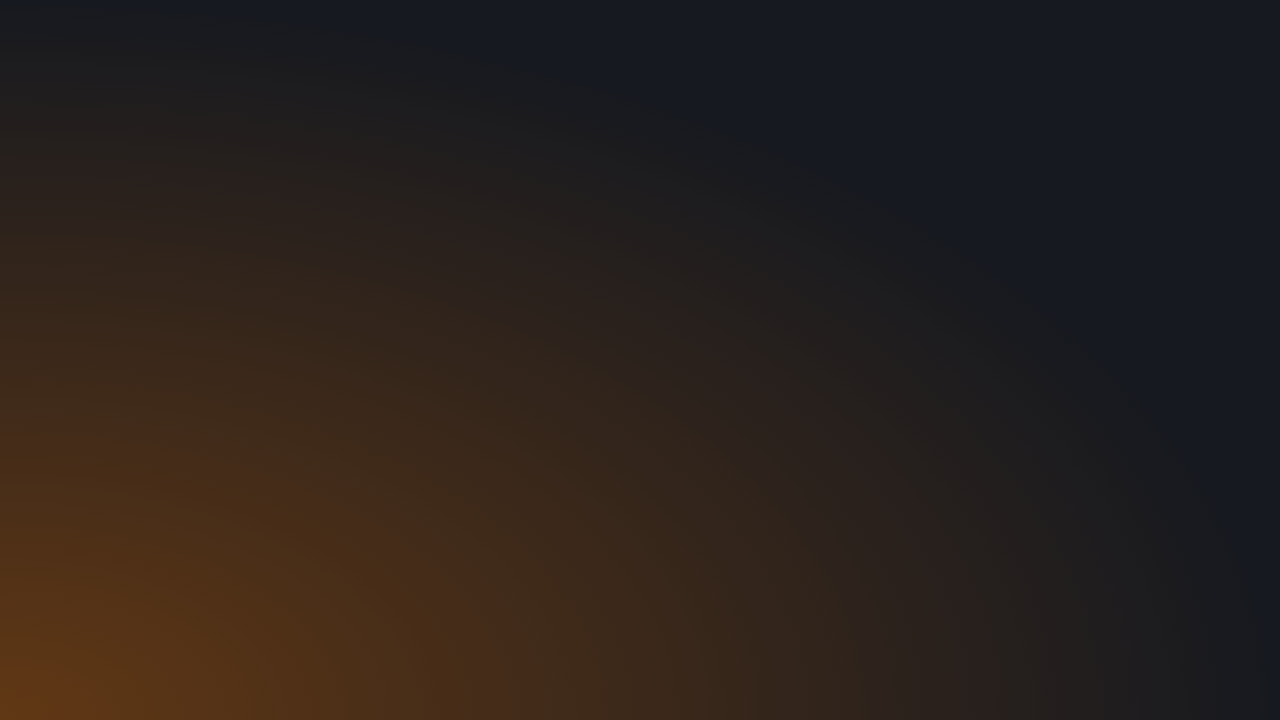
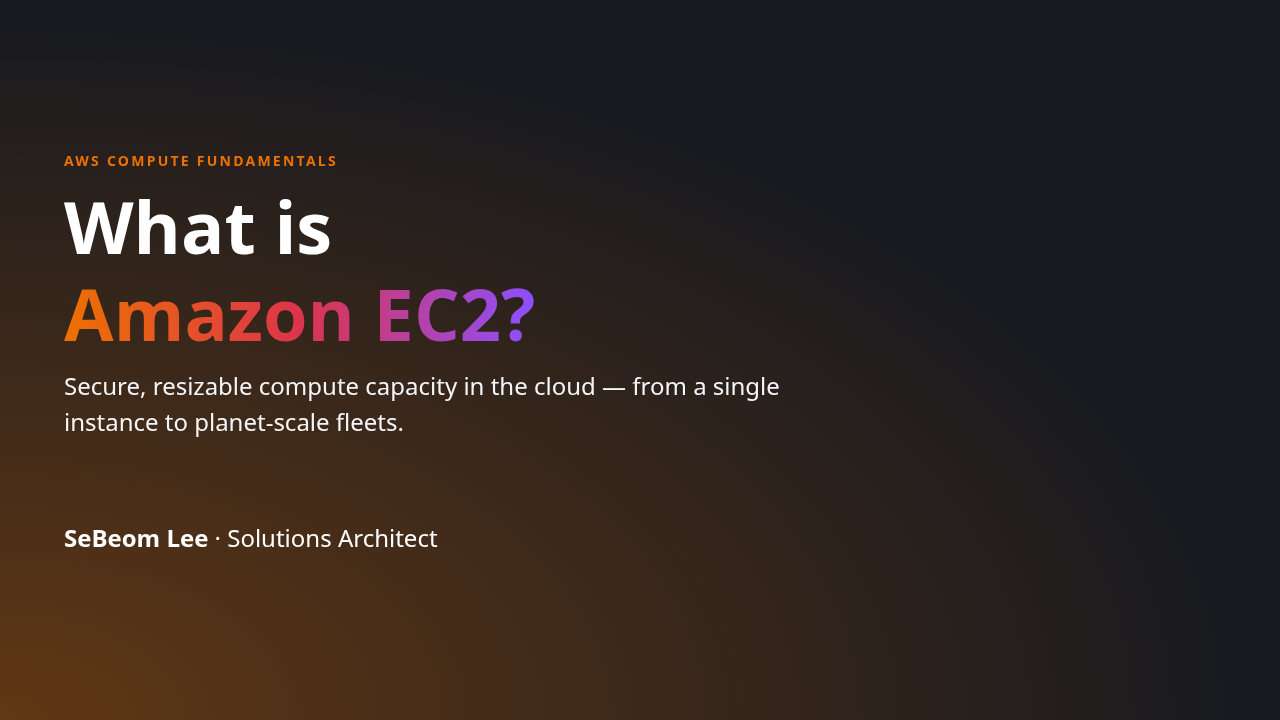
doc: re-render showcase after the print and entrance-delay fixes

diff --git a/examples/showcase/decks/balpyo-intro/index.html b/examples/showcase/decks/balpyo-intro/index.html
@@ -287,12 +287,16 @@
      The same gate as stepwise reveal: the document view, measure view, overview and print all see
      the end state, so the geometry pass measures the same layout. The effects use the individual
      translate / scale properties, not transform, so a rotated shape keeps its rotation. The delay
-     of each element comes from its data-balpyo-enter-delay (set by the runtime) and the duration
-     from the theme's motion token. */
+     of each element comes from its data-balpyo-enter-delay (the runtime copies it into
+     --balpyo-enter-delay) and the duration from the theme's motion token. The delay is applied
+     here, inside the gate, never inline: a transition with a zero duration but a positive delay
+     still runs, so an inline delay would keep elements at their start state for that long after
+     leaving the presenter view (to the document view, a screenshot or print). */
   html[data-balpyo-view="presenter"] [data-balpyo-enter] {
     transition-property: opacity, translate, scale, clip-path;
     transition-duration: var(--balpyo-motion-duration, 600ms);
     transition-timing-function: cubic-bezier(0.2, 0.7, 0.2, 1);
+    transition-delay: var(--balpyo-enter-delay, 0ms);
   }
   html[data-balpyo-view="presenter"] .balpyo-slide:not(.balpyo-viewer-entered) [data-balpyo-enter] {
     opacity: 0;
@@ -495,6 +499,12 @@
       outline: none;
       break-inside: avoid;
       break-after: page;
+      /* Size containment: the slide is a fixed stage-sized box, so this changes no size — it
+         makes the slide one unbreakable piece for the paginator. Without it Chromium drops
+         x/y-positioned children of a canvas stage or <stack> (absolutely positioned inside a
+         grid area) from the printed page while the screen shows them (measured: canvas slides
+         printed blank but for the footer). */
+      contain: size;
     }
     /* Stepwise reveal is fully expanded on paper — someone pressing Cmd+P mid-talk must not get
        paper missing the items not yet presented. The selector has the same specificity as the
@@ -1058,13 +1068,16 @@
 
   // ── 등장 ──
   //
-  // 지연은 마크업이 요소마다 나르고(data-balpyo-enter-delay) 여기서 전환에 건다 — 한 번이면 된다. 슬라이드에
+  // 지연은 마크업이 요소마다 나르고(data-balpyo-enter-delay) 여기서 변수(--balpyo-enter-delay)로 싣는다 — 한 번이면
+  // 된다. 전환에 거는 것은 발표자 뷰의 CSS다: transition-delay를 인라인으로 걸면 길이가 0인 다른 뷰에서도
+  // "지연 뒤에 바뀌는" 전환이 성립해(길이 + 지연 > 0), 문서 뷰 · 인쇄로 넘어간 순간 요소가 지연만큼 비어 있다.
+  // 슬라이드에
   // 들어갈 때 표식을 떼었다가 다음 프레임에 붙이면 요소들이 시작 상태에서 끝 상태로 엇갈려 움직인다. 뒤로
   // 들어온 장(이미 말한 장)은 움직이지 않고 끝 상태로 온다.
   const ENTERED_CLASS = "balpyo-viewer-entered";
   const INSTANT_CLASS = "balpyo-viewer-instant";
   document.querySelectorAll("[data-balpyo-enter]").forEach((el) => {
-    el.style.transitionDelay = (Number(el.getAttribute("data-balpyo-enter-delay")) || 0) + "ms";
+    el.style.setProperty("--balpyo-enter-delay", (Number(el.getAttribute("data-balpyo-enter-delay")) || 0) + "ms");
   });
   const enter = (slide, instant) => {
     slide.classList.remove(ENTERED_CLASS);

diff --git a/examples/showcase/decks/ec2-intro/index.html b/examples/showcase/decks/ec2-intro/index.html
@@ -357,12 +357,16 @@
      The same gate as stepwise reveal: the document view, measure view, overview and print all see
      the end state, so the geometry pass measures the same layout. The effects use the individual
      translate / scale properties, not transform, so a rotated shape keeps its rotation. The delay
-     of each element comes from its data-balpyo-enter-delay (set by the runtime) and the duration
-     from the theme's motion token. */
+     of each element comes from its data-balpyo-enter-delay (the runtime copies it into
+     --balpyo-enter-delay) and the duration from the theme's motion token. The delay is applied
+     here, inside the gate, never inline: a transition with a zero duration but a positive delay
+     still runs, so an inline delay would keep elements at their start state for that long after
+     leaving the presenter view (to the document view, a screenshot or print). */
   html[data-balpyo-view="presenter"] [data-balpyo-enter] {
     transition-property: opacity, translate, scale, clip-path;
     transition-duration: var(--balpyo-motion-duration, 600ms);
     transition-timing-function: cubic-bezier(0.2, 0.7, 0.2, 1);
+    transition-delay: var(--balpyo-enter-delay, 0ms);
   }
   html[data-balpyo-view="presenter"] .balpyo-slide:not(.balpyo-viewer-entered) [data-balpyo-enter] {
     opacity: 0;
@@ -565,6 +569,12 @@
       outline: none;
       break-inside: avoid;
       break-after: page;
+      /* Size containment: the slide is a fixed stage-sized box, so this changes no size — it
+         makes the slide one unbreakable piece for the paginator. Without it Chromium drops
+         x/y-positioned children of a canvas stage or <stack> (absolutely positioned inside a
+         grid area) from the printed page while the screen shows them (measured: canvas slides
+         printed blank but for the footer). */
+      contain: size;
     }
     /* Stepwise reveal is fully expanded on paper — someone pressing Cmd+P mid-talk must not get
        paper missing the items not yet presented. The selector has the same specificity as the
@@ -1925,13 +1935,16 @@
 
   // ── 등장 ──
   //
-  // 지연은 마크업이 요소마다 나르고(data-balpyo-enter-delay) 여기서 전환에 건다 — 한 번이면 된다. 슬라이드에
+  // 지연은 마크업이 요소마다 나르고(data-balpyo-enter-delay) 여기서 변수(--balpyo-enter-delay)로 싣는다 — 한 번이면
+  // 된다. 전환에 거는 것은 발표자 뷰의 CSS다: transition-delay를 인라인으로 걸면 길이가 0인 다른 뷰에서도
+  // "지연 뒤에 바뀌는" 전환이 성립해(길이 + 지연 > 0), 문서 뷰 · 인쇄로 넘어간 순간 요소가 지연만큼 비어 있다.
+  // 슬라이드에
   // 들어갈 때 표식을 떼었다가 다음 프레임에 붙이면 요소들이 시작 상태에서 끝 상태로 엇갈려 움직인다. 뒤로
   // 들어온 장(이미 말한 장)은 움직이지 않고 끝 상태로 온다.
   const ENTERED_CLASS = "balpyo-viewer-entered";
   const INSTANT_CLASS = "balpyo-viewer-instant";
   document.querySelectorAll("[data-balpyo-enter]").forEach((el) => {
-    el.style.transitionDelay = (Number(el.getAttribute("data-balpyo-enter-delay")) || 0) + "ms";
+    el.style.setProperty("--balpyo-enter-delay", (Number(el.getAttribute("data-balpyo-enter-delay")) || 0) + "ms");
   });
   const enter = (slide, instant) => {
     slide.classList.remove(ENTERED_CLASS);

diff --git a/examples/showcase/decks/incident-postmortem/index.html b/examples/showcase/decks/incident-postmortem/index.html
@@ -238,12 +238,16 @@
      The same gate as stepwise reveal: the document view, measure view, overview and print all see
      the end state, so the geometry pass measures the same layout. The effects use the individual
      translate / scale properties, not transform, so a rotated shape keeps its rotation. The delay
-     of each element comes from its data-balpyo-enter-delay (set by the runtime) and the duration
-     from the theme's motion token. */
+     of each element comes from its data-balpyo-enter-delay (the runtime copies it into
+     --balpyo-enter-delay) and the duration from the theme's motion token. The delay is applied
+     here, inside the gate, never inline: a transition with a zero duration but a positive delay
+     still runs, so an inline delay would keep elements at their start state for that long after
+     leaving the presenter view (to the document view, a screenshot or print). */
   html[data-balpyo-view="presenter"] [data-balpyo-enter] {
     transition-property: opacity, translate, scale, clip-path;
     transition-duration: var(--balpyo-motion-duration, 600ms);
     transition-timing-function: cubic-bezier(0.2, 0.7, 0.2, 1);
+    transition-delay: var(--balpyo-enter-delay, 0ms);
   }
   html[data-balpyo-view="presenter"] .balpyo-slide:not(.balpyo-viewer-entered) [data-balpyo-enter] {
     opacity: 0;
@@ -446,6 +450,12 @@
       outline: none;
       break-inside: avoid;
       break-after: page;
+      /* Size containment: the slide is a fixed stage-sized box, so this changes no size — it
+         makes the slide one unbreakable piece for the paginator. Without it Chromium drops
+         x/y-positioned children of a canvas stage or <stack> (absolutely positioned inside a
+         grid area) from the printed page while the screen shows them (measured: canvas slides
+         printed blank but for the footer). */
+      contain: size;
     }
     /* Stepwise reveal is fully expanded on paper — someone pressing Cmd+P mid-talk must not get
        paper missing the items not yet presented. The selector has the same specificity as the
@@ -1032,13 +1042,16 @@
 
   // ── 등장 ──
   //
-  // 지연은 마크업이 요소마다 나르고(data-balpyo-enter-delay) 여기서 전환에 건다 — 한 번이면 된다. 슬라이드에
+  // 지연은 마크업이 요소마다 나르고(data-balpyo-enter-delay) 여기서 변수(--balpyo-enter-delay)로 싣는다 — 한 번이면
+  // 된다. 전환에 거는 것은 발표자 뷰의 CSS다: transition-delay를 인라인으로 걸면 길이가 0인 다른 뷰에서도
+  // "지연 뒤에 바뀌는" 전환이 성립해(길이 + 지연 > 0), 문서 뷰 · 인쇄로 넘어간 순간 요소가 지연만큼 비어 있다.
+  // 슬라이드에
   // 들어갈 때 표식을 떼었다가 다음 프레임에 붙이면 요소들이 시작 상태에서 끝 상태로 엇갈려 움직인다. 뒤로
   // 들어온 장(이미 말한 장)은 움직이지 않고 끝 상태로 온다.
   const ENTERED_CLASS = "balpyo-viewer-entered";
   const INSTANT_CLASS = "balpyo-viewer-instant";
   document.querySelectorAll("[data-balpyo-enter]").forEach((el) => {
-    el.style.transitionDelay = (Number(el.getAttribute("data-balpyo-enter-delay")) || 0) + "ms";
+    el.style.setProperty("--balpyo-enter-delay", (Number(el.getAttribute("data-balpyo-enter-delay")) || 0) + "ms");
   });
   const enter = (slide, instant) => {
     slide.classList.remove(ENTERED_CLASS);

diff --git a/examples/showcase/decks/quarterly-review/index.html b/examples/showcase/decks/quarterly-review/index.html
@@ -307,12 +307,16 @@
      The same gate as stepwise reveal: the document view, measure view, overview and print all see
      the end state, so the geometry pass measures the same layout. The effects use the individual
      translate / scale properties, not transform, so a rotated shape keeps its rotation. The delay
-     of each element comes from its data-balpyo-enter-delay (set by the runtime) and the duration
-     from the theme's motion token. */
+     of each element comes from its data-balpyo-enter-delay (the runtime copies it into
+     --balpyo-enter-delay) and the duration from the theme's motion token. The delay is applied
+     here, inside the gate, never inline: a transition with a zero duration but a positive delay
+     still runs, so an inline delay would keep elements at their start state for that long after
+     leaving the presenter view (to the document view, a screenshot or print). */
   html[data-balpyo-view="presenter"] [data-balpyo-enter] {
     transition-property: opacity, translate, scale, clip-path;
     transition-duration: var(--balpyo-motion-duration, 600ms);
     transition-timing-function: cubic-bezier(0.2, 0.7, 0.2, 1);
+    transition-delay: var(--balpyo-enter-delay, 0ms);
   }
   html[data-balpyo-view="presenter"] .balpyo-slide:not(.balpyo-viewer-entered) [data-balpyo-enter] {
     opacity: 0;
@@ -515,6 +519,12 @@
       outline: none;
       break-inside: avoid;
       break-after: page;
+      /* Size containment: the slide is a fixed stage-sized box, so this changes no size — it
+         makes the slide one unbreakable piece for the paginator. Without it Chromium drops
+         x/y-positioned children of a canvas stage or <stack> (absolutely positioned inside a
+         grid area) from the printed page while the screen shows them (measured: canvas slides
+         printed blank but for the footer). */
+      contain: size;
     }
     /* Stepwise reveal is fully expanded on paper — someone pressing Cmd+P mid-talk must not get
        paper missing the items not yet presented. The selector has the same specificity as the
@@ -926,13 +936,16 @@
 
   // ── 등장 ──
   //
-  // 지연은 마크업이 요소마다 나르고(data-balpyo-enter-delay) 여기서 전환에 건다 — 한 번이면 된다. 슬라이드에
+  // 지연은 마크업이 요소마다 나르고(data-balpyo-enter-delay) 여기서 변수(--balpyo-enter-delay)로 싣는다 — 한 번이면
+  // 된다. 전환에 거는 것은 발표자 뷰의 CSS다: transition-delay를 인라인으로 걸면 길이가 0인 다른 뷰에서도
+  // "지연 뒤에 바뀌는" 전환이 성립해(길이 + 지연 > 0), 문서 뷰 · 인쇄로 넘어간 순간 요소가 지연만큼 비어 있다.
+  // 슬라이드에
   // 들어갈 때 표식을 떼었다가 다음 프레임에 붙이면 요소들이 시작 상태에서 끝 상태로 엇갈려 움직인다. 뒤로
   // 들어온 장(이미 말한 장)은 움직이지 않고 끝 상태로 온다.
   const ENTERED_CLASS = "balpyo-viewer-entered";
   const INSTANT_CLASS = "balpyo-viewer-instant";
   document.querySelectorAll("[data-balpyo-enter]").forEach((el) => {
-    el.style.transitionDelay = (Number(el.getAttribute("data-balpyo-enter-delay")) || 0) + "ms";
+    el.style.setProperty("--balpyo-enter-delay", (Number(el.getAttribute("data-balpyo-enter-delay")) || 0) + "ms");
   });
   const enter = (slide, instant) => {
     slide.classList.remove(ENTERED_CLASS);
